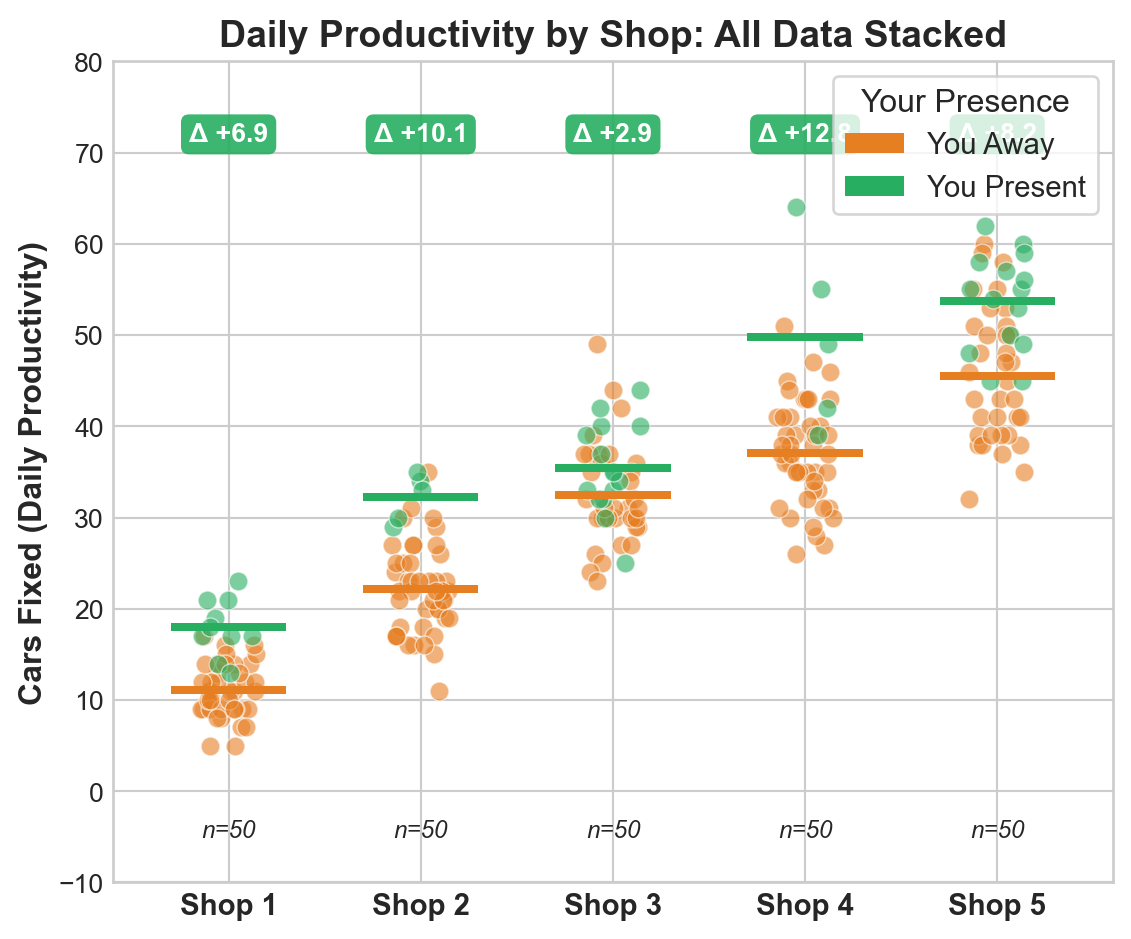
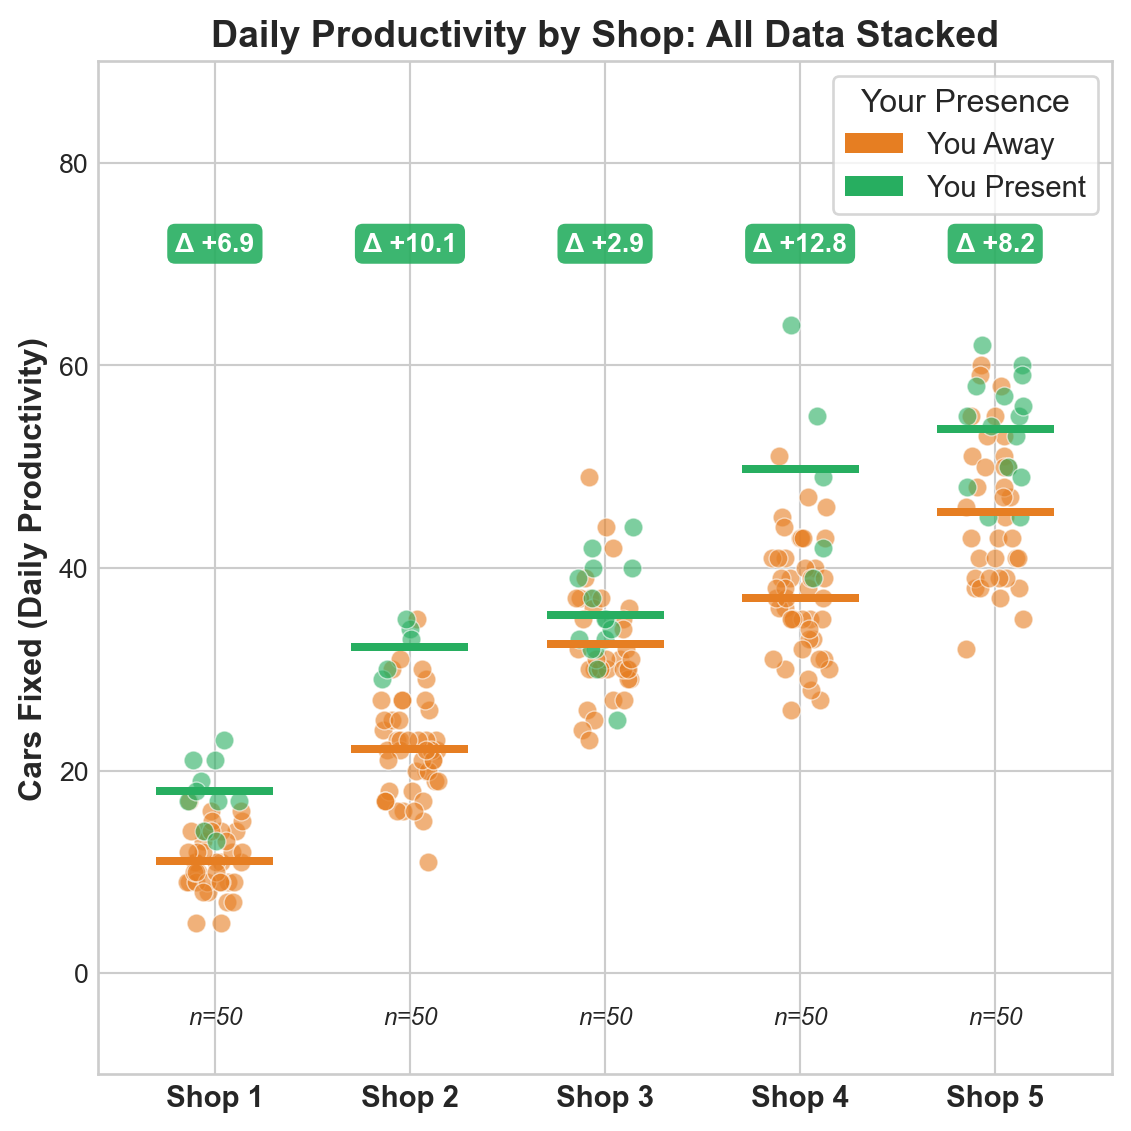
Update index files and figure

diff --git a/index.html b/index.html
@@ -105,11 +105,11 @@ ul.task-list li input[type="checkbox"] {
 <section id="what-the-data-shows" class="level2">
 <h2 class="anchored" data-anchor-id="what-the-data-shows">What the Data Shows</h2>
 <p>We analyzed 250 days of productivity data across your 5 shops. Here’s every single day plotted—you can see the pattern clearly:</p>
-<div id="d6d84dca" class="cell" data-fig-height="5" data-fig-width="6" data-execution_count="2">
+<div id="e6b00a99" class="cell" data-fig-height="6" data-fig-width="6" data-execution_count="2">
 <div class="cell-output cell-output-display">
 <div class="quarto-figure quarto-figure-center">
 <figure class="figure">
-<p><img src="index_files/figure-html/cell-3-output-1.png" width="566" height="470" class="figure-img"></p>
+<p><img src="index_files/figure-html/cell-3-output-1.png" width="566" height="566" class="figure-img"></p>
 <figcaption>Each dot is one day. Green = you were there. Orange = you were away. Delta shows the difference in average cars fixed.</figcaption>
 </figure>
 </div>
@@ -121,7 +121,7 @@ ul.task-list li input[type="checkbox"] {
 <section id="distribution-comparison-violin-plot" class="level2">
 <h2 class="anchored" data-anchor-id="distribution-comparison-violin-plot">Distribution Comparison: Violin Plot</h2>
 <p>This violin plot reveals the full shape of productivity distributions—not just averages, but how spread out and consistent each shop performs:</p>
-<div id="4b701465" class="cell" data-fig-height="6" data-fig-width="8" data-execution_count="3">
+<div id="c37ae1b0" class="cell" data-fig-height="6" data-fig-width="8" data-execution_count="3">
 <div class="cell-output cell-output-display">
 <div class="quarto-figure quarto-figure-center">
 <figure class="figure">
@@ -137,7 +137,7 @@ ul.task-list li input[type="checkbox"] {
 <section id="split-violin-plot-direct-comparison-by-shop" class="level2">
 <h2 class="anchored" data-anchor-id="split-violin-plot-direct-comparison-by-shop">Split Violin Plot: Direct Comparison by Shop</h2>
 <p>This split violin plot shows the productivity distribution for each shop with boss presence on opposite sides—making it easy to compare the “shape” of performance directly:</p>
-<div id="b3746982" class="cell" data-fig-height="8" data-fig-width="8" data-execution_count="4">
+<div id="f0fd4421" class="cell" data-fig-height="8" data-fig-width="8" data-execution_count="4">
 <div class="cell-output cell-output-display">
 <div class="quarto-figure quarto-figure-center">
 <figure class="figure">
@@ -153,7 +153,7 @@ ul.task-list li input[type="checkbox"] {
 <section id="d-view-shop-performance-landscape" class="level2">
 <h2 class="anchored" data-anchor-id="d-view-shop-performance-landscape">3D View: Shop Performance Landscape</h2>
 <p>Here’s an interactive 3D perspective showing all three dimensions at once—Shop ID, your presence status, and cars fixed:</p>
-<div id="98bd0923" class="cell" data-fig-height="8" data-fig-width="10" data-execution_count="5">
+<div id="3efcc400" class="cell" data-fig-height="8" data-fig-width="10" data-execution_count="5">
 <div class="cell-output cell-output-display">
 <div class="quarto-figure quarto-figure-center">
 <figure class="figure">
@@ -169,7 +169,7 @@ ul.task-list li input[type="checkbox"] {
 <section id="the-boss-boost-effect" class="level2">
 <h2 class="anchored" data-anchor-id="the-boss-boost-effect">The “Boss Boost” Effect</h2>
 <p>Here’s the real question: <strong>How many extra cars get fixed when you’re at each shop?</strong></p>
-<div id="a63ab27e" class="cell" data-fig-height="5" data-fig-width="9" data-execution_count="6">
+<div id="dbecc677" class="cell" data-fig-height="5" data-fig-width="9" data-execution_count="6">
 <div class="cell-output cell-output-display">
 <div class="quarto-figure quarto-figure-center">
 <figure class="figure">
@@ -226,7 +226,7 @@ ul.task-list li input[type="checkbox"] {
 <section id="how-confident-can-you-be" class="level2">
 <h2 class="anchored" data-anchor-id="how-confident-can-you-be">How Confident Can You Be?</h2>
 <p><strong>The honest truth:</strong> We only have 250 days of data, and you weren’t at every shop equally. Here’s what that means:</p>
-<div id="5f6c1453" class="cell" data-fig-height="6" data-fig-width="6" data-execution_count="7">
+<div id="16e6ccf2" class="cell" data-fig-height="6" data-fig-width="6" data-execution_count="7">
 <div class="cell-output cell-output-display">
 <div class="quarto-figure quarto-figure-center">
 <figure class="figure">
@@ -253,7 +253,7 @@ ul.task-list li input[type="checkbox"] {
 <section id="the-money-question" class="level2">
 <h2 class="anchored" data-anchor-id="the-money-question">The Money Question 💰</h2>
 <p>Let’s say each car fixed earns you <strong>$200 in profit</strong>. Here’s what different scheduling strategies could mean for your wallet:</p>
-<div id="ad66dbc3" class="cell" data-fig-height="7" data-fig-width="9" data-execution_count="8">
+<div id="6065cf55" class="cell" data-fig-height="7" data-fig-width="9" data-execution_count="8">
 <div class="cell-output cell-output-display">
 <div class="quarto-figure quarto-figure-center">
 <figure class="figure">
@@ -266,7 +266,7 @@ ul.task-list li input[type="checkbox"] {
 <section id="long-term-profit-projection" class="level3">
 <h3 class="anchored" data-anchor-id="long-term-profit-projection">Long-Term Profit Projection 📈</h3>
 <p>What do these strategies look like over a full year? Here’s how your profits compound:</p>
-<div id="6a05c136" class="cell" data-fig-height="5" data-fig-width="7" data-execution_count="9">
+<div id="7d88b676" class="cell" data-fig-height="5" data-fig-width="7" data-execution_count="9">
 <div class="cell-output cell-output-display">
 <div class="quarto-figure quarto-figure-center">
 <figure class="figure">
@@ -390,7 +390,7 @@ ul.task-list li input[type="checkbox"] {
 </section>
 <section id="one-final-chart-boss-presence-delta-by-shop" class="level3">
 <h3 class="anchored" data-anchor-id="one-final-chart-boss-presence-delta-by-shop">One Final Chart: Boss Presence Delta by Shop</h3>
-<div id="bfcd950b" class="cell" data-fig-height="16" data-fig-width="6" data-execution_count="10">
+<div id="af7fb72f" class="cell" data-fig-height="16" data-fig-width="6" data-execution_count="10">
 <div class="cell-output cell-output-display">
 <div class="quarto-figure quarto-figure-center">
 <figure class="figure">
